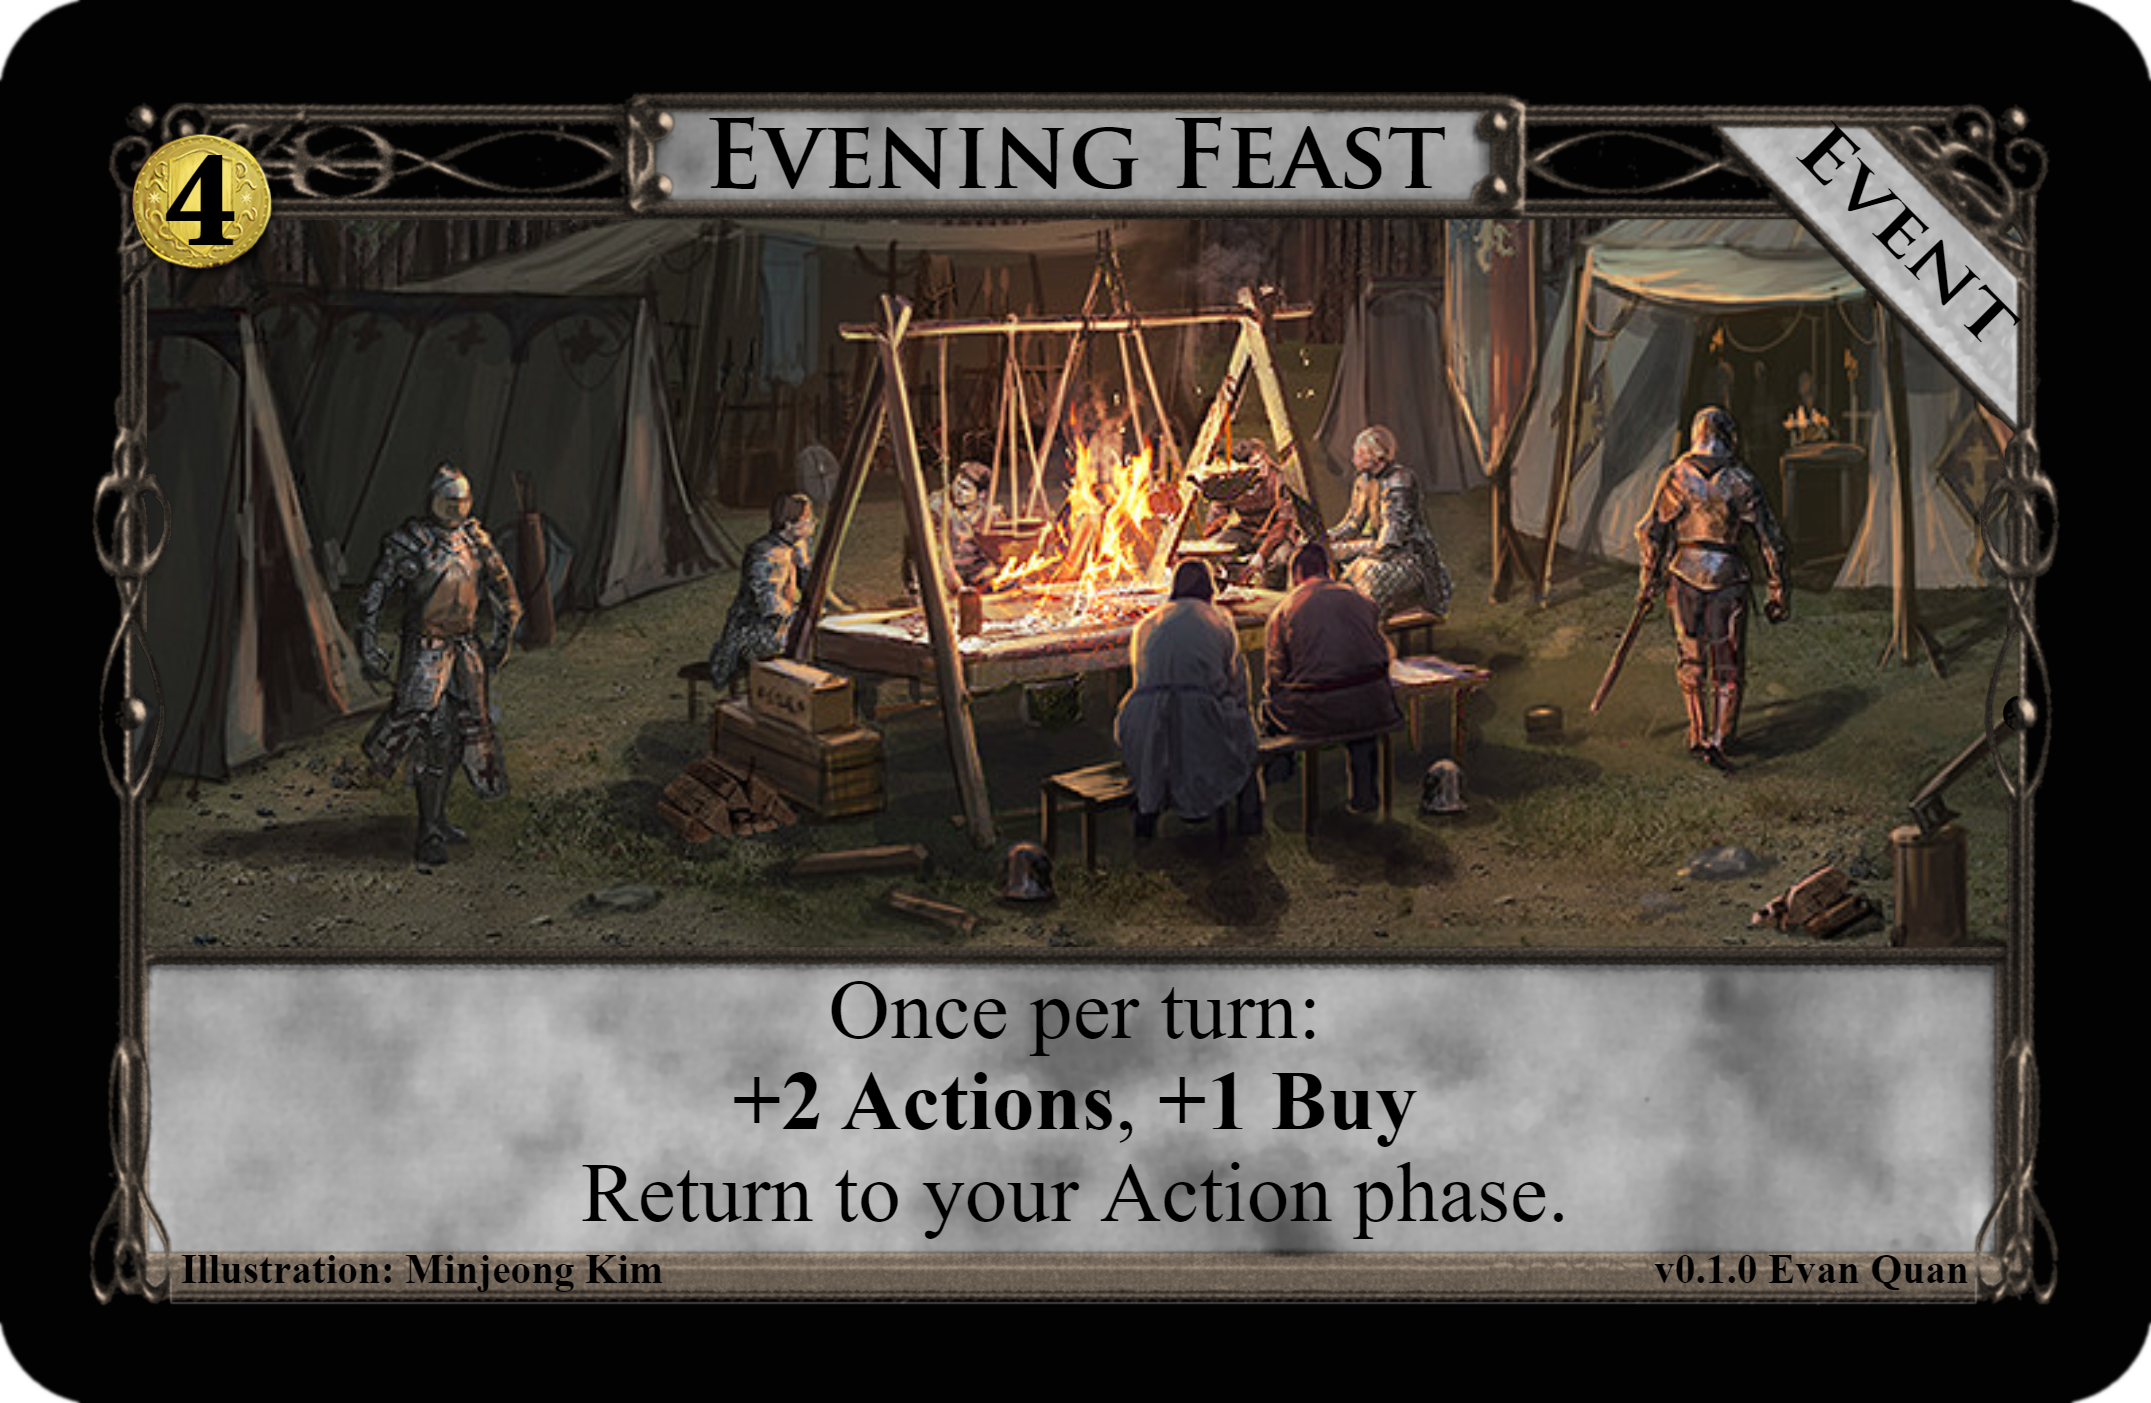
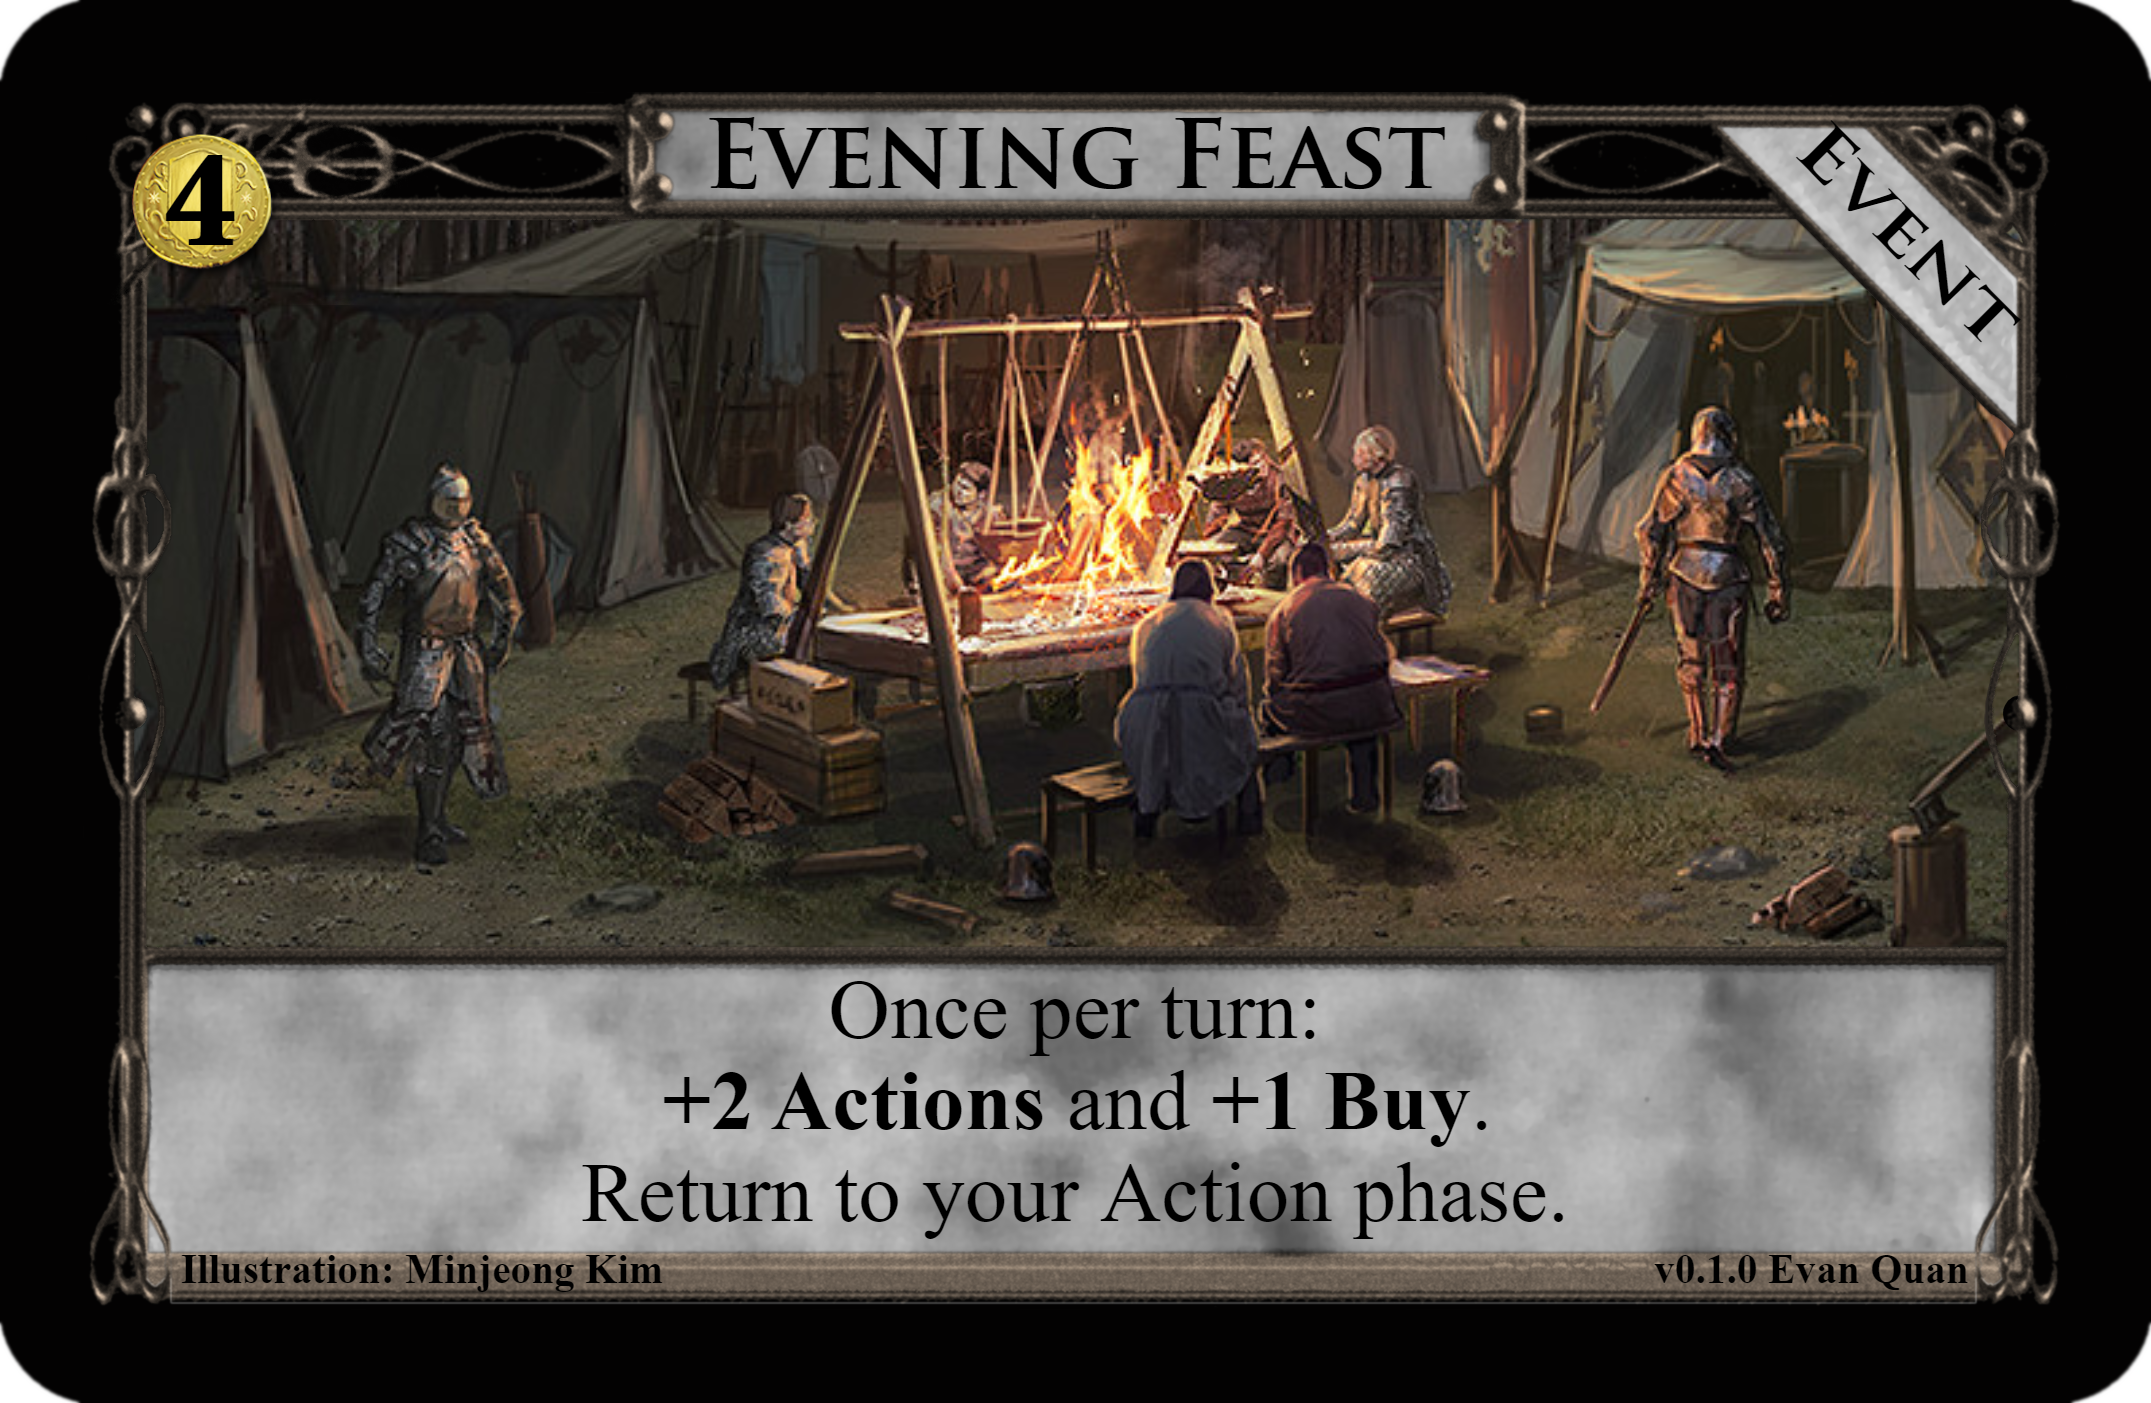
Update phrasing

Changed region(s): [[0.3115, 0.7662, 0.6853, 0.8275]]

diff --git a/Event/EveningFeast.md b/Event/EveningFeast.md
@@ -15,7 +15,7 @@
 Similar to [Villa][^Villa].
 
 [^v0.1.0]: /Event/Images/Evening_Feast_v0.1.0.png
-[^Card]: https://shardofhonor.github.io/dominion-card-generator/?title=Evening%20Feast&description=Once%20per%20turn%3A%0A%2B2%20Actions%2C%20%2B1%20Buy%0AReturn%20to%20your%20Action%20phase.&type=Event&credit=Illustration%3A%20Minjeong%20Kim&creator=v0.1.0%20Evan%20Quan&price=%244&preview=&type2=&color2split=1&boldkeys=&picture-x=0.37&picture-y=-0.82&picture-zoom=2&picture=https%3A%2F%2Fcdna.artstation.com%2Fp%2Fassets%2Fimages%2Fimages%2F015%2F359%2F084%2Flarge%2Fminjeong-kim-3.jpg%3F1548422356&expansion=&custom-icon=&color0=0&color1=0&size=1
+[^Card]: https://shardofhonor.github.io/dominion-card-generator/?title=Evening%20Feast&description=Once%20per%20turn%3A%0A%2B2%20Actions%20and%20%2B1%20Buy.%0AReturn%20to%20your%20Action%20phase.&type=Event&credit=Illustration%3A%20Minjeong%20Kim&creator=v0.1.0%20Evan%20Quan&price=%244&preview=&type2=&color2split=1&boldkeys=&picture-x=0.37&picture-y=-0.82&picture-zoom=2&picture=https%3A%2F%2Fcdna.artstation.com%2Fp%2Fassets%2Fimages%2Fimages%2F015%2F359%2F084%2Flarge%2Fminjeong-kim-3.jpg%3F1548422356&expansion=&custom-icon=&color0=0&color1=0&size=1
 [^Illustration]: https://www.artstation.com/artwork/A9oBzo
 [^Illustrator]: https://www.artstation.com/mj_kim
 [^Villa]: http://wiki.dominionstrategy.com/index.php/Villa
